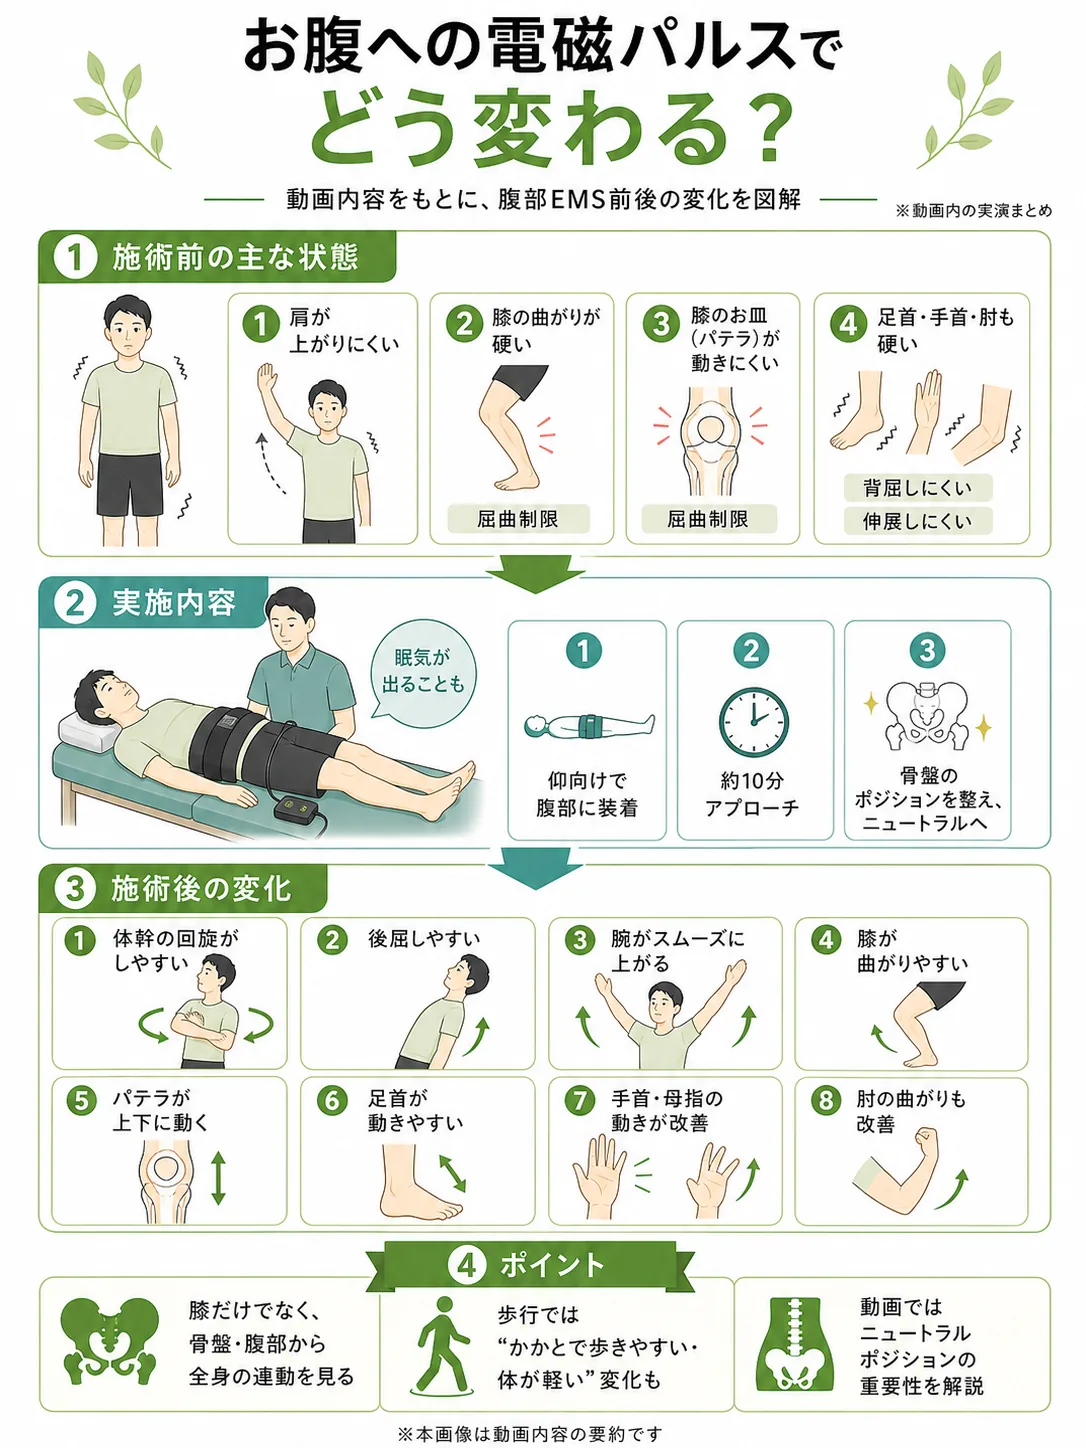
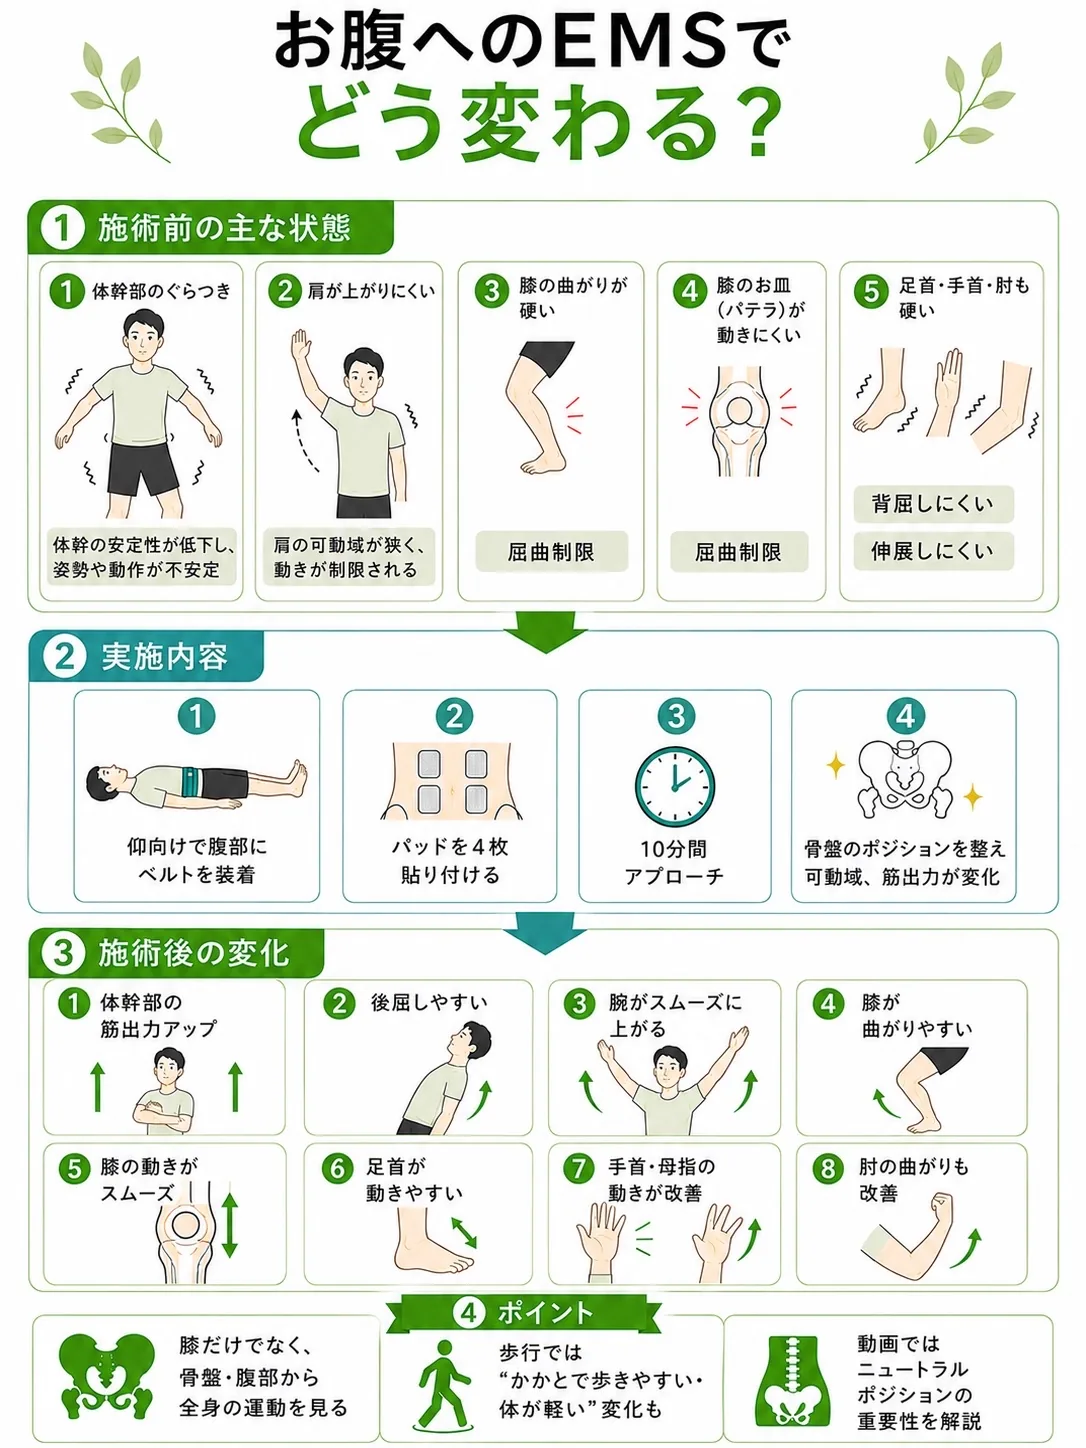
perf: 3つの大型図解を PNG→WebP 化、PC で 720px max-width に集約
- inspection/ems/wearing-overview を WebP (q82) で再生成、合計 4.7MB → 478KB
- index.html / service-worker.js の参照を .webp に切替、PNG 元データはディスク残置
- .inspection-poster / .wearing-poster / .ems-figure / .size-chart-figure に max-width: 720px と中央寄せを追加（PC で図解が画面いっぱいに膨らむのを防ぐ）
- cache buster を y にバンプ

diff --git a/index.html b/index.html
@@ -16,7 +16,7 @@
     <meta property="og:description" content="整骨院・整体院・治療院・サロン向け。理論・検査・装着・EMS・使い分けまでを1ページで集約した導入支援サイト。" />
     <meta property="og:type" content="website" />
     <meta property="og:url" content="https://tmk4men.github.io/yo-ki-hi-lp/" />
-    <meta property="og:image" content="https://tmk4men.github.io/yo-ki-hi-lp/assets/og-image.jpg?v=20260508x" />
+    <meta property="og:image" content="https://tmk4men.github.io/yo-ki-hi-lp/assets/og-image.jpg?v=20260508y" />
     <meta property="og:image:type" content="image/jpeg" />
     <meta property="og:image:width" content="1200" />
     <meta property="og:image:height" content="630" />
@@ -28,7 +28,7 @@
     <meta name="twitter:card" content="summary_large_image" />
     <meta name="twitter:title" content="Yo-Ki-Hi｜骨盤を立てる、姿勢の起点を整える。" />
     <meta name="twitter:description" content="整骨院・整体院・治療院・サロン向けの導入支援サイト。理論／検査／装着／EMS／使い分けを1ページで。" />
-    <meta name="twitter:image" content="https://tmk4men.github.io/yo-ki-hi-lp/assets/og-image.jpg?v=20260508x" />
+    <meta name="twitter:image" content="https://tmk4men.github.io/yo-ki-hi-lp/assets/og-image.jpg?v=20260508y" />
     <meta name="twitter:image:alt" content="Yo-Ki-Hi 骨盤ベルトとインナーパンツの着用イメージ" />
 
     <!-- 本番デプロイ時はドメインを実値に置換してください（OGP/Twitter/canonical 4 メタの URL） -->
@@ -36,7 +36,7 @@
     <link rel="icon" type="image/svg+xml" href="./assets/favicon.svg" />
     <link rel="preconnect" href="https://www.youtube-nocookie.com" />
     <link rel="preconnect" href="https://i.ytimg.com" />
-    <link rel="stylesheet" href="./style.css?v=20260508x" />
+    <link rel="stylesheet" href="./style.css?v=20260508y" />
     <link rel="manifest" href="./manifest.webmanifest" />
 
     <script type="application/ld+json">
@@ -48,7 +48,7 @@
           "@id": "https://tmk4men.github.io/yo-ki-hi-lp/#org",
           "name": "Yo-Ki-Hi",
           "url": "https://tmk4men.github.io/yo-ki-hi-lp/",
-          "logo": "https://tmk4men.github.io/yo-ki-hi-lp/assets/og-image.jpg?v=20260508x",
+          "logo": "https://tmk4men.github.io/yo-ki-hi-lp/assets/og-image.jpg?v=20260508y",
           "description": "整骨院・整体院・治療院・サロン向け、骨盤ベルト／インナーパンツの導入支援。"
         },
         {
@@ -65,7 +65,7 @@
           "category": "骨盤ベルト",
           "description": "骨盤を立てて姿勢の起点を整える、施術後・日常向けの骨盤ベルト。",
           "brand": { "@id": "https://tmk4men.github.io/yo-ki-hi-lp/#org" },
-          "image": "https://tmk4men.github.io/yo-ki-hi-lp/assets/og-image.jpg?v=20260508x"
+          "image": "https://tmk4men.github.io/yo-ki-hi-lp/assets/og-image.jpg?v=20260508y"
         },
         {
           "@type": "Product",
@@ -73,7 +73,7 @@
           "category": "骨盤サポートインナー",
           "description": "ズレにくく、運動・長時間使用に向く骨盤サポートインナーパンツ。",
           "brand": { "@id": "https://tmk4men.github.io/yo-ki-hi-lp/#org" },
-          "image": "https://tmk4men.github.io/yo-ki-hi-lp/assets/og-image.jpg?v=20260508x"
+          "image": "https://tmk4men.github.io/yo-ki-hi-lp/assets/og-image.jpg?v=20260508y"
         }
       ]
     }
@@ -341,7 +341,7 @@
 
           <figure class="inspection-poster card-surface">
             <img
-              src="./assets/inspection-overview.png"
+              src="./assets/inspection-overview.webp"
               alt="骨盤検査の方法を1枚にまとめた図解。腰・首・肩・筋出力・棒を使う検査まで、各検査項目の説明とイラストを一枚で確認できる。"
               loading="lazy"
             />
@@ -459,7 +459,7 @@
 
           <figure class="wearing-poster card-surface">
             <img
-              src="./assets/wearing-overview.png"
+              src="./assets/wearing-overview.webp"
               alt="骨盤ベルト『ペルビス』の正しい装着位置。なぜ装着位置が重要／よくあるNG装着／正しい装着手順／位置の目安／装着時のポイントを1枚にまとめた図解"
               loading="lazy"
             />
@@ -710,7 +710,7 @@
 
           <figure class="ems-figure card-surface">
             <img
-              src="./assets/ems-overview.png"
+              src="./assets/ems-overview.webp"
               alt="お腹へのEMSでどう変わる？施術前の主な状態・実施内容・施術後の変化・ポイントを1枚にまとめた図解"
               loading="lazy"
             />
@@ -813,6 +813,6 @@
       <svg class="icon" viewBox="0 0 24 24" aria-hidden="true"><path d="M5 12h14"/><polyline points="13 6 19 12 13 18"/></svg>
     </a>
 
-    <script src="./app.js?v=20260508x" defer></script>
+    <script src="./app.js?v=20260508y" defer></script>
   </body>
 </html>

diff --git a/posture.html b/posture.html
@@ -14,18 +14,18 @@
     <meta property="og:description" content="装着前後の写真から、肩・骨盤・頭部の傾きを数値で比較できるブラウザ完結型ツール。" />
     <meta property="og:type" content="website" />
     <meta property="og:url" content="https://tmk4men.github.io/yo-ki-hi-lp/posture.html" />
-    <meta property="og:image" content="https://tmk4men.github.io/yo-ki-hi-lp/assets/og-image.jpg?v=20260508x" />
+    <meta property="og:image" content="https://tmk4men.github.io/yo-ki-hi-lp/assets/og-image.jpg?v=20260508y" />
     <meta property="og:site_name" content="Yo-Ki-Hi" />
     <meta property="og:locale" content="ja_JP" />
     <meta name="twitter:card" content="summary_large_image" />
     <meta name="twitter:title" content="Yo-Ki-Hi｜姿勢分析" />
     <meta name="twitter:description" content="装着前後の写真から、肩・骨盤・頭部の傾きを数値で比較できるブラウザ完結型ツール。" />
-    <meta name="twitter:image" content="https://tmk4men.github.io/yo-ki-hi-lp/assets/og-image.jpg?v=20260508x" />
+    <meta name="twitter:image" content="https://tmk4men.github.io/yo-ki-hi-lp/assets/og-image.jpg?v=20260508y" />
 
     <link rel="canonical" href="https://tmk4men.github.io/yo-ki-hi-lp/posture.html" />
     <link rel="icon" type="image/svg+xml" href="./assets/favicon.svg" />
-    <link rel="stylesheet" href="./style.css?v=20260508x" />
-    <link rel="stylesheet" href="./posture.css?v=20260508x" />
+    <link rel="stylesheet" href="./style.css?v=20260508y" />
+    <link rel="stylesheet" href="./posture.css?v=20260508y" />
   </head>
   <body>
     <a href="#posture-tool" class="skip-link">本文へスキップ</a>
@@ -222,7 +222,7 @@
       </footer>
     </div>
 
-    <script src="./app.js?v=20260508x" defer></script>
-    <script type="module" src="./posture.js?v=20260508x"></script>
+    <script src="./app.js?v=20260508y" defer></script>
+    <script type="module" src="./posture.js?v=20260508y"></script>
   </body>
 </html>

diff --git a/purchase-login.html b/purchase-login.html
@@ -15,17 +15,17 @@
     <meta property="og:description" content="案内されたパスワードを入力すると、対象の購入ページへお進みいただけます。" />
     <meta property="og:type" content="website" />
     <meta property="og:url" content="https://tmk4men.github.io/yo-ki-hi-lp/purchase-login.html" />
-    <meta property="og:image" content="https://tmk4men.github.io/yo-ki-hi-lp/assets/og-image.jpg?v=20260508x" />
+    <meta property="og:image" content="https://tmk4men.github.io/yo-ki-hi-lp/assets/og-image.jpg?v=20260508y" />
     <meta property="og:site_name" content="Yo-Ki-Hi" />
     <meta property="og:locale" content="ja_JP" />
     <meta name="twitter:card" content="summary_large_image" />
     <meta name="twitter:title" content="Yo-Ki-Hi｜購入ログイン" />
     <meta name="twitter:description" content="案内されたパスワードを入力すると、対象の購入ページへお進みいただけます。" />
-    <meta name="twitter:image" content="https://tmk4men.github.io/yo-ki-hi-lp/assets/og-image.jpg?v=20260508x" />
+    <meta name="twitter:image" content="https://tmk4men.github.io/yo-ki-hi-lp/assets/og-image.jpg?v=20260508y" />
 
     <link rel="canonical" href="https://tmk4men.github.io/yo-ki-hi-lp/purchase-login.html" />
     <link rel="icon" type="image/svg+xml" href="./assets/favicon.svg" />
-    <link rel="stylesheet" href="./style.css?v=20260508x" />
+    <link rel="stylesheet" href="./style.css?v=20260508y" />
   </head>
   <body>
     <a href="#purchase-login" class="skip-link">本文へスキップ</a>
@@ -146,7 +146,7 @@
       </footer>
     </div>
 
-    <script src="./app.js?v=20260508x" defer></script>
-    <script src="./purchase-login.js?v=20260508x" defer></script>
+    <script src="./app.js?v=20260508y" defer></script>
+    <script src="./purchase-login.js?v=20260508y" defer></script>
   </body>
 </html>

diff --git a/404.html b/404.html
@@ -11,16 +11,16 @@
     <meta property="og:title" content="Yo-Ki-Hi｜ページが見つかりません" />
     <meta property="og:description" content="お探しのページは見つかりませんでした。" />
     <meta property="og:type" content="website" />
-    <meta property="og:image" content="https://tmk4men.github.io/yo-ki-hi-lp/assets/og-image.jpg?v=20260508x" />
+    <meta property="og:image" content="https://tmk4men.github.io/yo-ki-hi-lp/assets/og-image.jpg?v=20260508y" />
     <meta property="og:site_name" content="Yo-Ki-Hi" />
     <meta property="og:locale" content="ja_JP" />
     <meta name="twitter:card" content="summary_large_image" />
     <meta name="twitter:title" content="Yo-Ki-Hi｜ページが見つかりません" />
     <meta name="twitter:description" content="お探しのページは見つかりませんでした。" />
-    <meta name="twitter:image" content="https://tmk4men.github.io/yo-ki-hi-lp/assets/og-image.jpg?v=20260508x" />
+    <meta name="twitter:image" content="https://tmk4men.github.io/yo-ki-hi-lp/assets/og-image.jpg?v=20260508y" />
 
     <link rel="icon" type="image/svg+xml" href="./assets/favicon.svg" />
-    <link rel="stylesheet" href="./style.css?v=20260508x" />
+    <link rel="stylesheet" href="./style.css?v=20260508y" />
   </head>
   <body>
     <div class="grain-overlay" aria-hidden="true"></div>
@@ -71,6 +71,6 @@
       </footer>
     </div>
 
-    <script src="./app.js?v=20260508x" defer></script>
+    <script src="./app.js?v=20260508y" defer></script>
   </body>
 </html>

diff --git a/purchase-hiramori.html b/purchase-hiramori.html
@@ -15,17 +15,17 @@
     <meta property="og:description" content="平森先生のコミュニティに参加されている塾生の皆さま向け、専用の購入ページです。" />
     <meta property="og:type" content="website" />
     <meta property="og:url" content="https://tmk4men.github.io/yo-ki-hi-lp/purchase-hiramori.html" />
-    <meta property="og:image" content="https://tmk4men.github.io/yo-ki-hi-lp/assets/og-image.jpg?v=20260508x" />
+    <meta property="og:image" content="https://tmk4men.github.io/yo-ki-hi-lp/assets/og-image.jpg?v=20260508y" />
     <meta property="og:site_name" content="Yo-Ki-Hi" />
     <meta property="og:locale" content="ja_JP" />
     <meta name="twitter:card" content="summary_large_image" />
     <meta name="twitter:title" content="Yo-Ki-Hi｜平森先生 塾生向け 購入ページ" />
     <meta name="twitter:description" content="平森先生コミュニティの塾生の皆さま向け、専用の購入ページです。" />
-    <meta name="twitter:image" content="https://tmk4men.github.io/yo-ki-hi-lp/assets/og-image.jpg?v=20260508x" />
+    <meta name="twitter:image" content="https://tmk4men.github.io/yo-ki-hi-lp/assets/og-image.jpg?v=20260508y" />
 
     <link rel="canonical" href="https://tmk4men.github.io/yo-ki-hi-lp/purchase-hiramori.html" />
     <link rel="icon" type="image/svg+xml" href="./assets/favicon.svg" />
-    <link rel="stylesheet" href="./style.css?v=20260508x" />
+    <link rel="stylesheet" href="./style.css?v=20260508y" />
   </head>
   <body>
     <a href="#purchase-list" class="skip-link">本文へスキップ</a>
@@ -131,6 +131,6 @@
       </footer>
     </div>
 
-    <script src="./app.js?v=20260508x" defer></script>
+    <script src="./app.js?v=20260508y" defer></script>
   </body>
 </html>

diff --git a/purchase-ota.html b/purchase-ota.html
@@ -15,17 +15,17 @@
     <meta property="og:description" content="太田先生のコミュニティに参加されている塾生の皆さま向け、専用の購入ページです。" />
     <meta property="og:type" content="website" />
     <meta property="og:url" content="https://tmk4men.github.io/yo-ki-hi-lp/purchase-ota.html" />
-    <meta property="og:image" content="https://tmk4men.github.io/yo-ki-hi-lp/assets/og-image.jpg?v=20260508x" />
+    <meta property="og:image" content="https://tmk4men.github.io/yo-ki-hi-lp/assets/og-image.jpg?v=20260508y" />
     <meta property="og:site_name" content="Yo-Ki-Hi" />
     <meta property="og:locale" content="ja_JP" />
     <meta name="twitter:card" content="summary_large_image" />
     <meta name="twitter:title" content="Yo-Ki-Hi｜太田先生 塾生向け 購入ページ" />
     <meta name="twitter:description" content="太田先生コミュニティの塾生の皆さま向け、専用の購入ページです。" />
-    <meta name="twitter:image" content="https://tmk4men.github.io/yo-ki-hi-lp/assets/og-image.jpg?v=20260508x" />
+    <meta name="twitter:image" content="https://tmk4men.github.io/yo-ki-hi-lp/assets/og-image.jpg?v=20260508y" />
 
     <link rel="canonical" href="https://tmk4men.github.io/yo-ki-hi-lp/purchase-ota.html" />
     <link rel="icon" type="image/svg+xml" href="./assets/favicon.svg" />
-    <link rel="stylesheet" href="./style.css?v=20260508x" />
+    <link rel="stylesheet" href="./style.css?v=20260508y" />
   </head>
   <body>
     <a href="#purchase-list" class="skip-link">本文へスキップ</a>
@@ -131,6 +131,6 @@
       </footer>
     </div>
 
-    <script src="./app.js?v=20260508x" defer></script>
+    <script src="./app.js?v=20260508y" defer></script>
   </body>
 </html>

diff --git a/purchase-shop.html b/purchase-shop.html
@@ -15,17 +15,17 @@
     <meta property="og:description" content="取扱店契約済みの治療院・サロン、および一般導入者の皆さま向けの購入ページです。" />
     <meta property="og:type" content="website" />
     <meta property="og:url" content="https://tmk4men.github.io/yo-ki-hi-lp/purchase-shop.html" />
-    <meta property="og:image" content="https://tmk4men.github.io/yo-ki-hi-lp/assets/og-image.jpg?v=20260508x" />
+    <meta property="og:image" content="https://tmk4men.github.io/yo-ki-hi-lp/assets/og-image.jpg?v=20260508y" />
     <meta property="og:site_name" content="Yo-Ki-Hi" />
     <meta property="og:locale" content="ja_JP" />
     <meta name="twitter:card" content="summary_large_image" />
     <meta name="twitter:title" content="Yo-Ki-Hi｜導入店・一般導入者向け 購入ページ" />
     <meta name="twitter:description" content="導入店契約済みの治療院・サロン、および一般導入者の皆さま向けの購入ページです。" />
-    <meta name="twitter:image" content="https://tmk4men.github.io/yo-ki-hi-lp/assets/og-image.jpg?v=20260508x" />
+    <meta name="twitter:image" content="https://tmk4men.github.io/yo-ki-hi-lp/assets/og-image.jpg?v=20260508y" />
 
     <link rel="canonical" href="https://tmk4men.github.io/yo-ki-hi-lp/purchase-shop.html" />
     <link rel="icon" type="image/svg+xml" href="./assets/favicon.svg" />
-    <link rel="stylesheet" href="./style.css?v=20260508x" />
+    <link rel="stylesheet" href="./style.css?v=20260508y" />
   </head>
   <body>
     <a href="#purchase-list" class="skip-link">本文へスキップ</a>
@@ -133,6 +133,6 @@
       </footer>
     </div>
 
-    <script src="./app.js?v=20260508x" defer></script>
+    <script src="./app.js?v=20260508y" defer></script>
   </body>
 </html>

diff --git a/service-worker.js b/service-worker.js
@@ -4,7 +4,7 @@
   - 認証ページはキャッシュさせない
 */
 
-const VERSION = "yokihi-v20260508x";
+const VERSION = "yokihi-v20260508y";
 const STATIC_ASSETS = [
   "/",
   "/index.html",
@@ -13,9 +13,9 @@ const STATIC_ASSETS = [
   "/assets/favicon.svg",
   "/assets/og-image.jpg",
   "/assets/belt-check-guide.webp",
-  "/assets/wearing-overview.png",
-  "/assets/ems-overview.png",
-  "/assets/inspection-overview.png",
+  "/assets/wearing-overview.webp",
+  "/assets/ems-overview.webp",
+  "/assets/inspection-overview.webp",
   "/assets/ems-supine.jpg",
   "/assets/ems-pads.jpg",
   "/assets/hero-belt.jpg",

diff --git a/tokushoho.html b/tokushoho.html
@@ -11,17 +11,17 @@
     <meta property="og:description" content="販売者情報、お支払い方法、配送、返品等の条件をご案内します。" />
     <meta property="og:type" content="website" />
     <meta property="og:url" content="https://tmk4men.github.io/yo-ki-hi-lp/tokushoho.html" />
-    <meta property="og:image" content="https://tmk4men.github.io/yo-ki-hi-lp/assets/og-image.jpg?v=20260508x" />
+    <meta property="og:image" content="https://tmk4men.github.io/yo-ki-hi-lp/assets/og-image.jpg?v=20260508y" />
     <meta property="og:site_name" content="Yo-Ki-Hi" />
     <meta property="og:locale" content="ja_JP" />
     <meta name="twitter:card" content="summary_large_image" />
     <meta name="twitter:title" content="Yo-Ki-Hi｜特定商取引法に基づく表記" />
     <meta name="twitter:description" content="販売者情報、お支払い方法、配送、返品等の条件をご案内します。" />
-    <meta name="twitter:image" content="https://tmk4men.github.io/yo-ki-hi-lp/assets/og-image.jpg?v=20260508x" />
+    <meta name="twitter:image" content="https://tmk4men.github.io/yo-ki-hi-lp/assets/og-image.jpg?v=20260508y" />
 
     <link rel="canonical" href="https://tmk4men.github.io/yo-ki-hi-lp/tokushoho.html" />
     <link rel="icon" type="image/svg+xml" href="./assets/favicon.svg" />
-    <link rel="stylesheet" href="./style.css?v=20260508x" />
+    <link rel="stylesheet" href="./style.css?v=20260508y" />
   </head>
   <body>
     <a href="#main" class="skip-link">本文へスキップ</a>
@@ -136,6 +136,6 @@
       </footer>
     </div>
 
-    <script src="./app.js?v=20260508x" defer></script>
+    <script src="./app.js?v=20260508y" defer></script>
   </body>
 </html>

diff --git a/style.css b/style.css
@@ -1686,7 +1686,11 @@ button, input, textarea { font: inherit; }
 /* 検査セクション・装着セクション・商品情報の参考図カード（ems-figure と同じ振る舞い） */
 .inspection-poster,
 .wearing-poster,
+.ems-figure,
 .size-chart-figure {
+  max-width: 720px;
+  margin-left: auto;
+  margin-right: auto;
   margin-top: 1.4rem;
   overflow: hidden;
 }